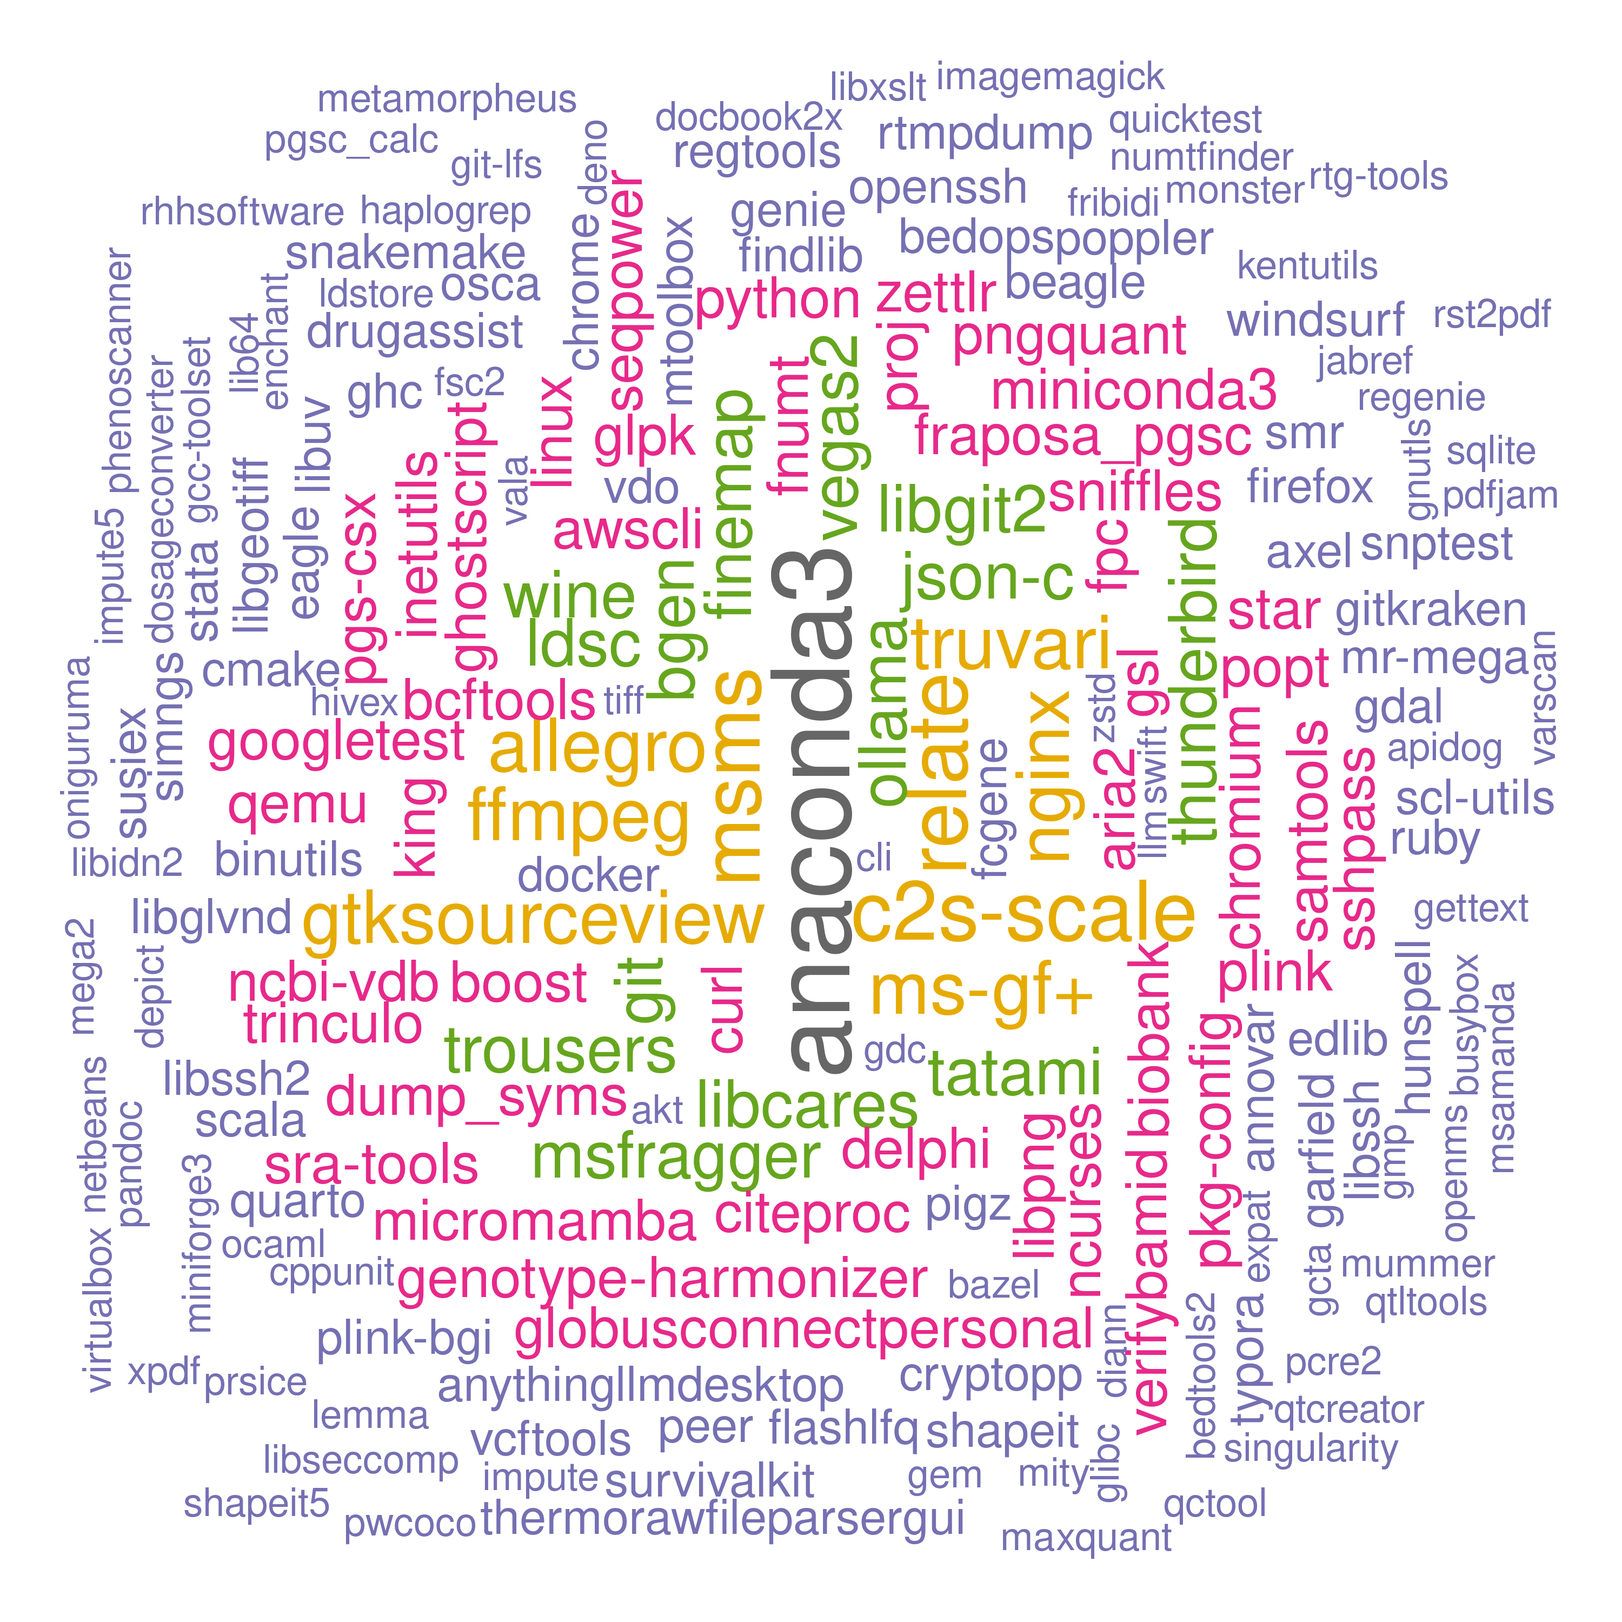
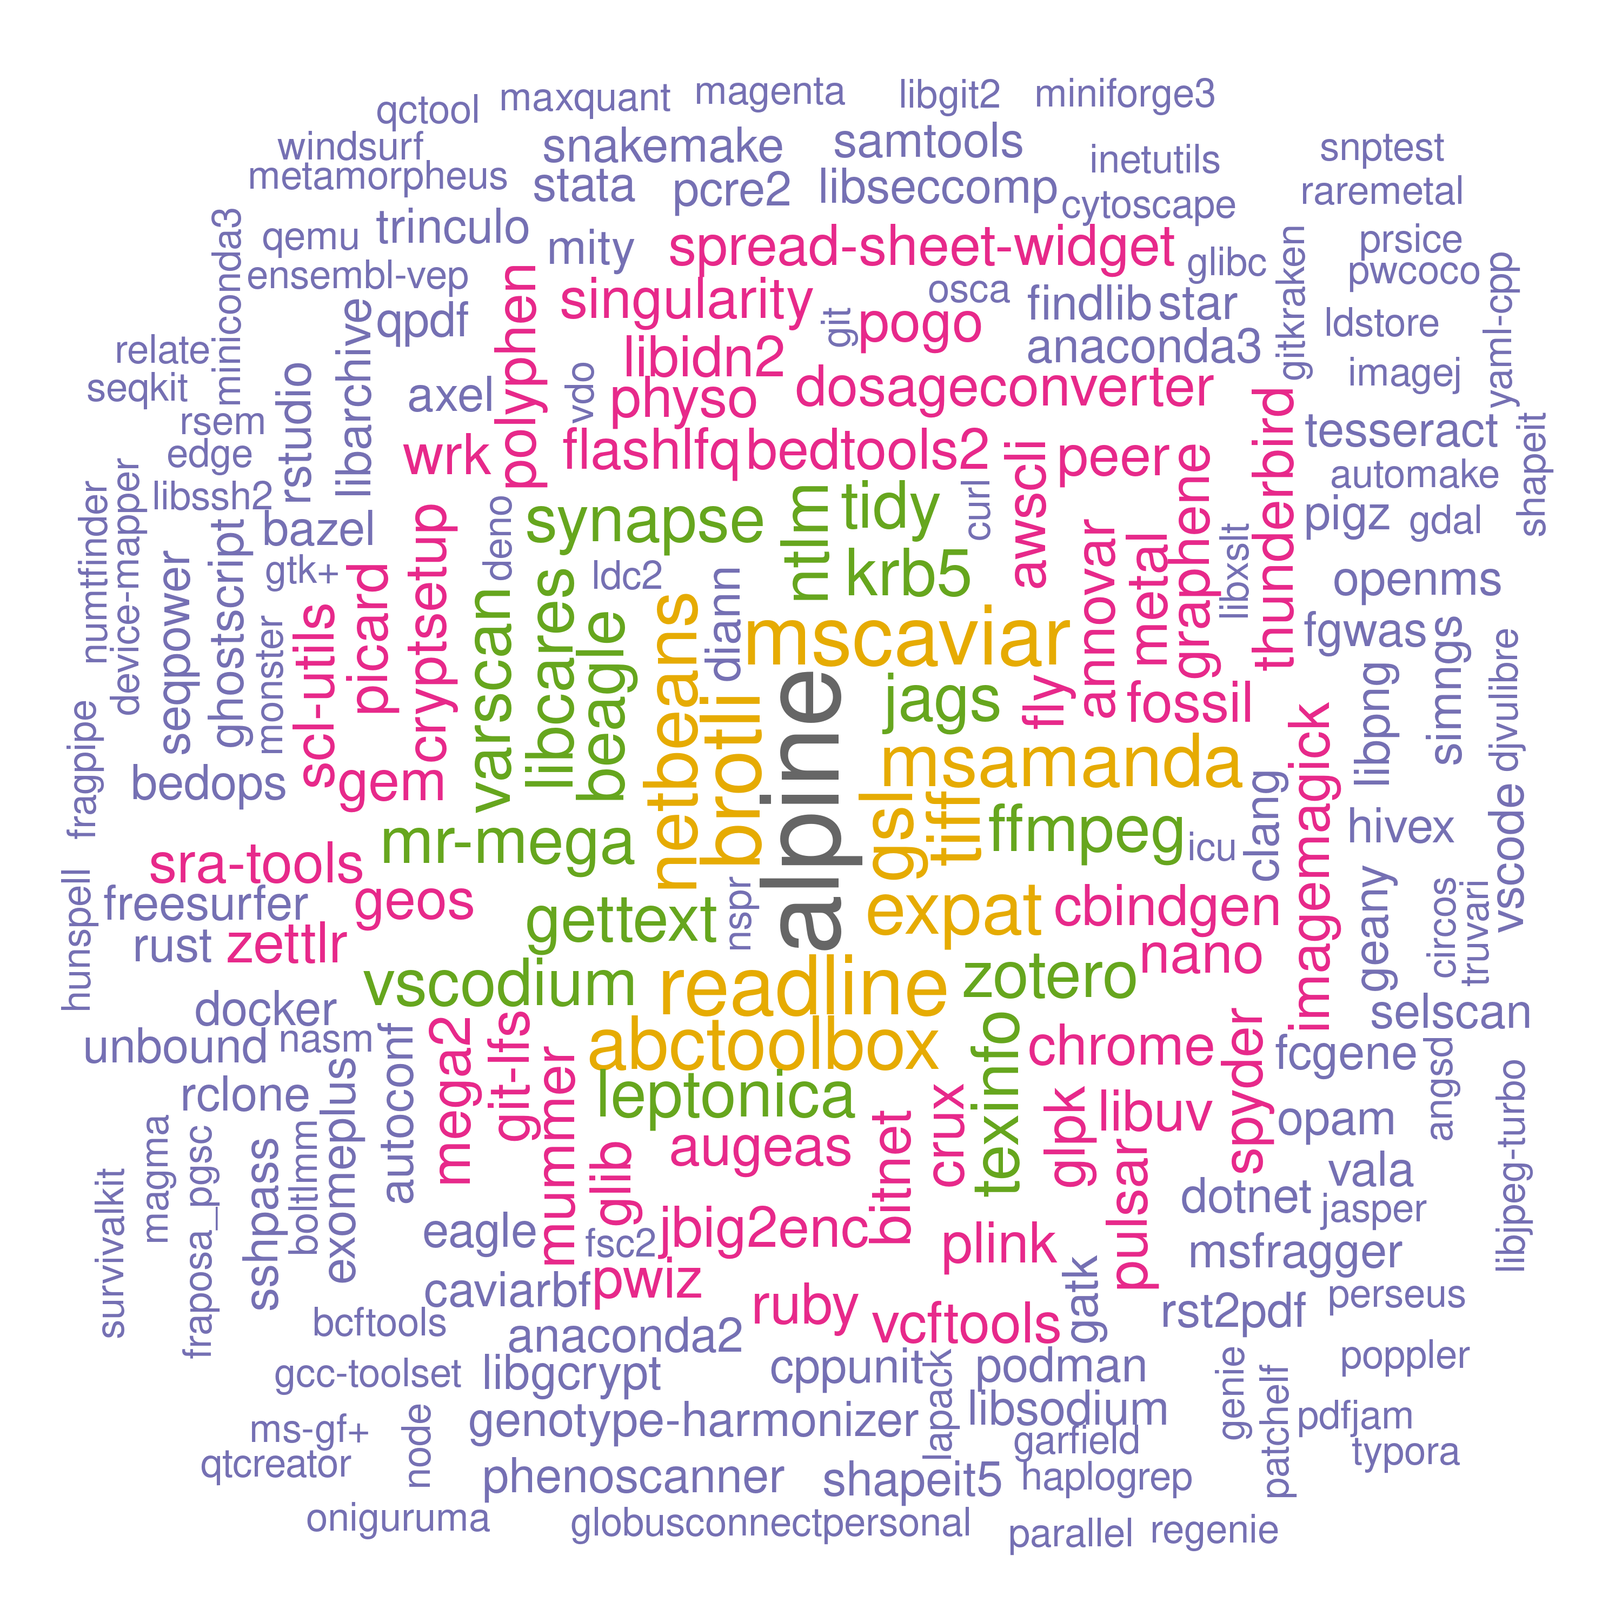
./

Changed region(s): [[0.031, 0.031, 0.961, 0.961]]

diff --git a/systems/ceuadmin.md b/systems/ceuadmin.md
@@ -16,94 +16,94 @@ The current list is as follows,
 
 ```
   [1] "ABCtoolbox"             "akt"                    "allegro"                "alpine"
-  [5] "Anaconda2"              "Anaconda3"              "angsd"                  "annovar"
-  [9] "AnythingLLMDesktop"     "apidog"                 "aria2"                  "augeas"
- [13] "autoconf"               "automake"               "awscli"                 "axel"
- [17] "bazel"                  "bcftools"               "Beagle"                 "bedops"
- [21] "bedtools2"              "bgen"                   "binutils"               "biobank"
- [25] "BitNet"                 "blat"                   "boltlmm"                "boost"
- [29] "brotli"                 "busybox"                "BWA"                    "C2S-Scale"
- [33] "caddy"                  "CaVEMaN"                "CAVIAR"                 "CAVIARBF"
- [37] "cbindgen"               "ccal"                   "chrome"                 "chromium"
- [41] "circos"                 "citeproc"               "clang"                  "cli"
- [45] "clues2"                 "cmake"                  "cmocka"                 "comet"
- [49] "cppunit"                "crossmap"               "crux"                   "cryptopp"
- [53] "cryptsetup"             "curl"                   "Cytoscape"              "delphi"
- [57] "deno"                   "DEPICT"                 "device-mapper"          "diann"
- [61] "DjVuLibre"              "docbook2X"              "docker"                 "DosageConverter"
- [65] "dotnet"                 "DrugAssist"             "dump_syms"              "Eagle"
- [69] "edge"                   "edit"                   "edlib"                  "enchant"
- [73] "ensembl-vep"            "exiv2"                  "exomeplus"              "expat"
- [77] "FastQTL"                "fcGENE"                 "ffmpeg"                 "fgwas"
- [81] "findlib"                "finemap"                "firefox"                "FlashLFQ"
- [85] "flashpca"               "fly"                    "fNUMT"                  "fossil"
- [89] "fpc"                    "FragPipe"               "fraposa_pgsc"           "freesurfer"
- [93] "fribidi"                "fsc2"                   "GARFIELD"               "gatk"
- [97] "gcc-toolset"            "gcta"                   "gdal"                   "gdc"
-[101] "geany"                  "GEM"                    "GEMMA"                  "GENIE"
-[105] "Genotype-Harmonizer"    "geos"                   "gettext"                "gh"
-[109] "ghc"                    "ghostscript"            "git"                    "git-extras"
-[113] "GitKraken"              "git-lfs"                "glib"                   "glibc"
-[117] "globusconnectpersonal"  "glpk"                   "gmp"                    "gnutls"
-[121] "go"                     "googletest"             "graphene"               "GraphicsMagick"
-[125] "GreenAlgorithms4HPC"    "gsl"                    "gsutil"                 "gtk+"
-[129] "gtksourceview"          "gtool"                  "haplogrep"              "hap.py"
-[133] "hapstat"                "hivex"                  "hpg"                    "htslib"
-[137] "hunspell"               "icu"                    "ImageJ"                 "ImageMagick"
-[141] "impute"                 "impute5"                "inetutils"              "InstaNovo"
-[145] "IonQuant"               "JabRef"                 "JAGS"                   "jasper"
-[149] "jbig2enc"               "jq"                     "json-c"                 "KentUtils"
-[153] "KING"                   "kojak"                  "krb5"                   "lapack"
-[157] "ldc2"                   "ldsc"                   "LDstore"                "LEMMA"
-[161] "leptonica"              "lib64"                  "libarchive"             "libcares"
-[165] "libgcrypt"              "libgeotiff"             "libgit2"                "libglvnd"
-[169] "libiconv"               "libidn2"                "libjpeg-turbo"          "libntlm"
-[173] "libpng"                 "libseccomp"             "libsodium"              "libssh"
-[177] "libssh2"                "libuv"                  "libxml2"                "libxslt"
-[181] "linux"                  "llama.cpp"              "llm"                    "locuszoom"
-[185] "LVM2"                   "MAGENTA"                "magma"                  "Mango"
-[189] "MaxQuant"               "Mega2"                  "metal"                  "MetaMorpheus"
-[193] "micromamba"             "Miniconda3"             "miniforge3"             "mitoscape"
-[197] "mity"                   "MONSTER"                "MORGAN"                 "MR-MEGA"
-[201] "msamanda"               "MsCAVIAR"               "MSFragger"              "MS-GF+"
-[205] "msms"                   "MToolBox"               "MUMmer"                 "nano"
-[209] "nasm"                   "ncbi-vdb"               "ncurses"                "netbeans"
-[213] "nettle"                 "nextflow"               "nginx"                  "NLopt"
-[217] "node"                   "nspr"                   "ntlm"                   "NUMTFinder"
-[221] "ocaml"                  "ollama"                 "oniguruma"              "opam"
-[225] "openjdk"                "OpenMS"                 "openssh"                "openssl"
-[229] "osca"                   "p7zip-zstd"             "PAINTOR"                "pandoc"
-[233] "pandoc-citeproc"        "pango"                  "parallel"               "Pascal"
-[237] "patchelf"               "pcre2"                  "pdf2djvu"               "pdfjam"
-[241] "peer"                   "Perseus"                "pgsc_calc"              "PGS-CSx"
-[245] "phenoscanner"           "PhySO"                  "picard"                 "pigz"
-[249] "pkg-config"             "plink"                  "plink-bgi"              "plinkseq"
-[253] "pngquant"               "podman"                 "PoGo"                   "polyphen"
-[257] "poppler"                "popt"                   "proj"                   "PRSice"
-[261] "pspp"                   "pulsar"                 "PWCoCo"                 "pwiz"
-[265] "python"                 "qctool"                 "qemu"                   "qpdf"
-[269] "qt"                     "qtcreator"              "QTLtools"               "quarto"
-[273] "quicktest"              "R"                      "raremetal"              "rclone"
-[277] "readline"               "regenie"                "regtools"               "relate"
-[281] "RHHsoftware"            "RSEM"                   "rst2pdf"                "rstudio"
-[285] "rtg-tools"              "rtmpdump"               "ruby"                   "rust"
-[289] "sage"                   "samtools"               "Scala"                  "scGPT"
-[293] "scl-utils"              "selscan"                "seqkit"                 "SEQPower"
-[297] "shapeit"                "shapeit5"               "simNGS"                 "singularity"
-[301] "SMR"                    "snakemake"              "sniffles"               "SNP2HLA"
-[305] "snptest"                "spread-sheet-widget"    "spyder"                 "sqlite"
-[309] "sra-tools"              "sshpass"                "ssw"                    "STAR"
-[313] "stata"                  "SurvivalAnalysis"       "SurvivalKit"            "SuSiEx"
-[317] "SVanalyzer"             "Swift"                  "SYMPHONY"               "Synapse"
-[321] "tabix"                  "tandem"                 "tatami"                 "tesseract"
-[325] "texinfo"                "ThermoRawFileParser"    "ThermoRawFileParserGUI" "thunderbird"
-[329] "tidy"                   "tiff"                   "trinculo"               "trousers"
-[333] "truvari"                "Typora"                 "unbound"                "uv"
-[337] "vala"                   "VarScan"                "vcftools"               "vdo"
-[341] "VEGAS2"                 "verifyBamID"            "VirtualBox"             "VSCode"
-[345] "VSCodium"               "vte"                    "Windsurf"               "wine"
-[349] "wrk"                    "xpdf"                   "yaml-cpp"               "Zettlr"
-[353] "Zotero"                 "zstd"
+  [5] "alsa-lib"               "Anaconda2"              "Anaconda3"              "angsd"
+  [9] "annovar"                "AnythingLLMDesktop"     "apidog"                 "aria2"
+ [13] "augeas"                 "autoconf"               "automake"               "awscli"
+ [17] "axel"                   "bazel"                  "bcftools"               "Beagle"
+ [21] "bedops"                 "bedtools2"              "bgen"                   "binutils"
+ [25] "biobank"                "BitNet"                 "blat"                   "boltlmm"
+ [29] "boost"                  "brotli"                 "busybox"                "BWA"
+ [33] "C2S-Scale"              "caddy"                  "CaVEMaN"                "CAVIAR"
+ [37] "CAVIARBF"               "cbindgen"               "ccal"                   "chrome"
+ [41] "chromium"               "circos"                 "citeproc"               "clang"
+ [45] "cli"                    "clues2"                 "cmake"                  "cmocka"
+ [49] "comet"                  "cppunit"                "crossmap"               "crux"
+ [53] "cryptopp"               "cryptsetup"             "curl"                   "Cytoscape"
+ [57] "delphi"                 "deno"                   "DEPICT"                 "device-mapper"
+ [61] "diann"                  "DjVuLibre"              "docbook2X"              "docker"
+ [65] "DosageConverter"        "dotnet"                 "DrugAssist"             "dump_syms"
+ [69] "Eagle"                  "edge"                   "edit"                   "edlib"
+ [73] "enchant"                "ensembl-vep"            "exiv2"                  "exomeplus"
+ [77] "expat"                  "FastQTL"                "fcGENE"                 "ffmpeg"
+ [81] "fgwas"                  "findlib"                "finemap"                "firefox"
+ [85] "FlashLFQ"               "flashpca"               "fly"                    "fNUMT"
+ [89] "fossil"                 "fpc"                    "FragPipe"               "fraposa_pgsc"
+ [93] "freesurfer"             "fribidi"                "fsc2"                   "GARFIELD"
+ [97] "gatk"                   "gcc-toolset"            "gcta"                   "gdal"
+[101] "gdc"                    "geany"                  "GEM"                    "GEMMA"
+[105] "GENIE"                  "Genotype-Harmonizer"    "geos"                   "gettext"
+[109] "gh"                     "ghc"                    "ghostscript"            "git"
+[113] "git-extras"             "GitKraken"              "git-lfs"                "glib"
+[117] "glibc"                  "globusconnectpersonal"  "glpk"                   "gmp"
+[121] "gnutls"                 "go"                     "googletest"             "graphene"
+[125] "GraphicsMagick"         "GreenAlgorithms4HPC"    "gsl"                    "gsutil"
+[129] "gtk+"                   "gtksourceview"          "gtool"                  "haplogrep"
+[133] "hap.py"                 "hapstat"                "hivex"                  "hpg"
+[137] "htslib"                 "hunspell"               "icu"                    "ImageJ"
+[141] "ImageMagick"            "impute"                 "impute5"                "inetutils"
+[145] "InstaNovo"              "IonQuant"               "JabRef"                 "JAGS"
+[149] "jasper"                 "jbig2enc"               "jq"                     "json-c"
+[153] "KentUtils"              "KING"                   "kojak"                  "krb5"
+[157] "lapack"                 "ldc2"                   "ldsc"                   "LDstore"
+[161] "LEMMA"                  "leptonica"              "lib64"                  "libarchive"
+[165] "libcares"               "libgcrypt"              "libgeotiff"             "libgit2"
+[169] "libglvnd"               "libiconv"               "libidn2"                "libjpeg-turbo"
+[173] "libntlm"                "libpng"                 "libseccomp"             "libsodium"
+[177] "libssh"                 "libssh2"                "libuv"                  "libxml2"
+[181] "libxslt"                "linux"                  "llama.cpp"              "llm"
+[185] "locuszoom"              "LVM2"                   "MAGENTA"                "magma"
+[189] "Mango"                  "MaxQuant"               "Mega2"                  "metal"
+[193] "MetaMorpheus"           "micromamba"             "Miniconda3"             "miniforge3"
+[197] "mitoscape"              "mity"                   "MONSTER"                "MORGAN"
+[201] "MR-MEGA"                "msamanda"               "MsCAVIAR"               "MSFragger"
+[205] "MS-GF+"                 "msms"                   "MToolBox"               "MUMmer"
+[209] "nano"                   "nasm"                   "ncbi-vdb"               "ncurses"
+[213] "netbeans"               "nettle"                 "nextflow"               "nginx"
+[217] "NLopt"                  "node"                   "nspr"                   "ntlm"
+[221] "NUMTFinder"             "ocaml"                  "ollama"                 "oniguruma"
+[225] "opam"                   "openjdk"                "OpenMS"                 "openssh"
+[229] "openssl"                "osca"                   "p7zip-zstd"             "PAINTOR"
+[233] "pandoc"                 "pandoc-citeproc"        "pango"                  "parallel"
+[237] "Pascal"                 "patchelf"               "pcre2"                  "pdf2djvu"
+[241] "pdfjam"                 "peer"                   "Perseus"                "pgsc_calc"
+[245] "PGS-CSx"                "phenoscanner"           "PhySO"                  "picard"
+[249] "pigz"                   "pkg-config"             "plink"                  "plink-bgi"
+[253] "plinkseq"               "pngquant"               "podman"                 "PoGo"
+[257] "polyphen"               "poppler"                "popt"                   "proj"
+[261] "PRSice"                 "pspp"                   "pulsar"                 "PWCoCo"
+[265] "pwiz"                   "python"                 "qctool"                 "qemu"
+[269] "qpdf"                   "qt"                     "qtcreator"              "QTLtools"
+[273] "quarto"                 "quicktest"              "R"                      "raremetal"
+[277] "rclone"                 "readline"               "regenie"                "regtools"
+[281] "relate"                 "RHHsoftware"            "RSEM"                   "rst2pdf"
+[285] "rstudio"                "rtg-tools"              "rtmpdump"               "ruby"
+[289] "rust"                   "sage"                   "samtools"               "Scala"
+[293] "scGPT"                  "scl-utils"              "selscan"                "seqkit"
+[297] "SEQPower"               "shapeit"                "shapeit5"               "simNGS"
+[301] "singularity"            "SMR"                    "snakemake"              "sniffles"
+[305] "SNP2HLA"                "snptest"                "spread-sheet-widget"    "spyder"
+[309] "sqlite"                 "sra-tools"              "sshpass"                "ssw"
+[313] "STAR"                   "stata"                  "SurvivalAnalysis"       "SurvivalKit"
+[317] "SuSiEx"                 "SVanalyzer"             "Swift"                  "SYMPHONY"
+[321] "Synapse"                "tabix"                  "tandem"                 "tatami"
+[325] "tesseract"              "texinfo"                "ThermoRawFileParser"    "ThermoRawFileParserGUI"
+[329] "thunderbird"            "tidy"                   "tiff"                   "trinculo"
+[333] "trousers"               "truvari"                "Typora"                 "unbound"
+[337] "uv"                     "vala"                   "VarScan"                "vcftools"
+[341] "vdo"                    "VEGAS2"                 "verifyBamID"            "VirtualBox"
+[345] "VSCode"                 "VSCodium"               "vte"                    "Windsurf"
+[349] "wine"                   "wrk"                    "xpdf"                   "yaml-cpp"
+[353] "Zettlr"                 "Zotero"                 "zstd"
 ```
 
 These are wrapped up as :star::star::star: **[modules](https://modules.readthedocs.io/en/latest/index.html)** :star::star::star:.

diff --git a/applications/firefox.md b/applications/firefox.md
@@ -90,31 +90,26 @@ ac_add_options --enable-optimize
 A test of bfd, as with necessary files from `dnf`:
 
 ```bash
+export PKG_CONFIG_PATH=/usr/lib64/pkgconfig:$PKG_CONFIG_PATH
+export SYSROOT=~/.mozbuild/sysroot-x86_64-linux-gnu
 echo 'int main() { return 0; }' > test.c
 gcc -o test test.c -fuse-ld=bfd
 gcc --sysroot=/home/jhz22/.mozbuild/sysroot-x86_64-linux-gnu \
-    -B/home/jhz22/.mozbuild/sysroot-x86_64-linux-gnu/usr/lib/x86_64-linux-gnu -o test test.c -fuse-ld=bfd
-# kernel-headers
+    -B$SYSROOT -o test test.c -fuse-ld=bfd
 dnf download kernel-headers
-# glibc
 dnf download glibc
-mkdir glibc-files
-cd glibc-files
-rpm2cpio ../glibc-*.rpm | cpio -idmv -D /home/jhz22/.mozbuild/sysroot-x86_64-linux-gnu
-# glibc-headers
+dnf download glibc-common
 dnf download --resolve glibc-headers
-mkdir -p glibc-headers-extracted
-cd glibc-headers-extracted
-rpm2cpio ../glibc-headers*.rpm | cpio -idmv
-rpm2cpio glibc-headers*.rpm | cpio -idmv -D /home/jhz22/.mozbuild/sysroot-x86_64-linux-gnu
-cp -rv ./usr/include/gnu ~/.mozbuild/sysroot-x86_64-linux-gnu/usr/include/
-# glibc-devel
 dnf download glibc-devel
-mkdir -p glibc-devel-extracted
-cd glibc-devel-extracted
-rpm2cpio ../glibc-devel*.rpm | cpio -idmv
-rpm2cpio glibc-devel*.rpm | cpio -idmv
-cp -v ./usr/lib*/crt*.o ~/.mozbuild/sysroot-x86_64-linux-gnu/usr/lib/x86_64-linux-gnu/
+cd $SYSROOT
+for rpm in ~/rds/software/firefox/*x86_64.rpm; do
+    rpm2cpio "$rpm" | cpio -idmv -D .
+done
+for dir in lib lib64 libexec share; do
+    ln -s usr/$dir
+done
+module load ceuadmin/pkg-config
+./mach build
 ```
 
 ## ceuadmin/firefox/nightly

diff --git a/systems/setup.md b/systems/setup.md
@@ -487,6 +487,7 @@ All entries are ordered chronologically.
 | 2025-09-13 | VSCode/1.104.0                   | Genetic               |
 | 2025-09-21 | ollama/0.12.0                    | Genetic               |
 | 2025-09-22 | delphi/github                    | Generic[^delphi]      |
+| 2025-09-23 | alsa-lib/1.2.14                  | Generic               |
 
 \* CEU or approved users only -- when not indicated can be found out from the folder associated with a module.
 
